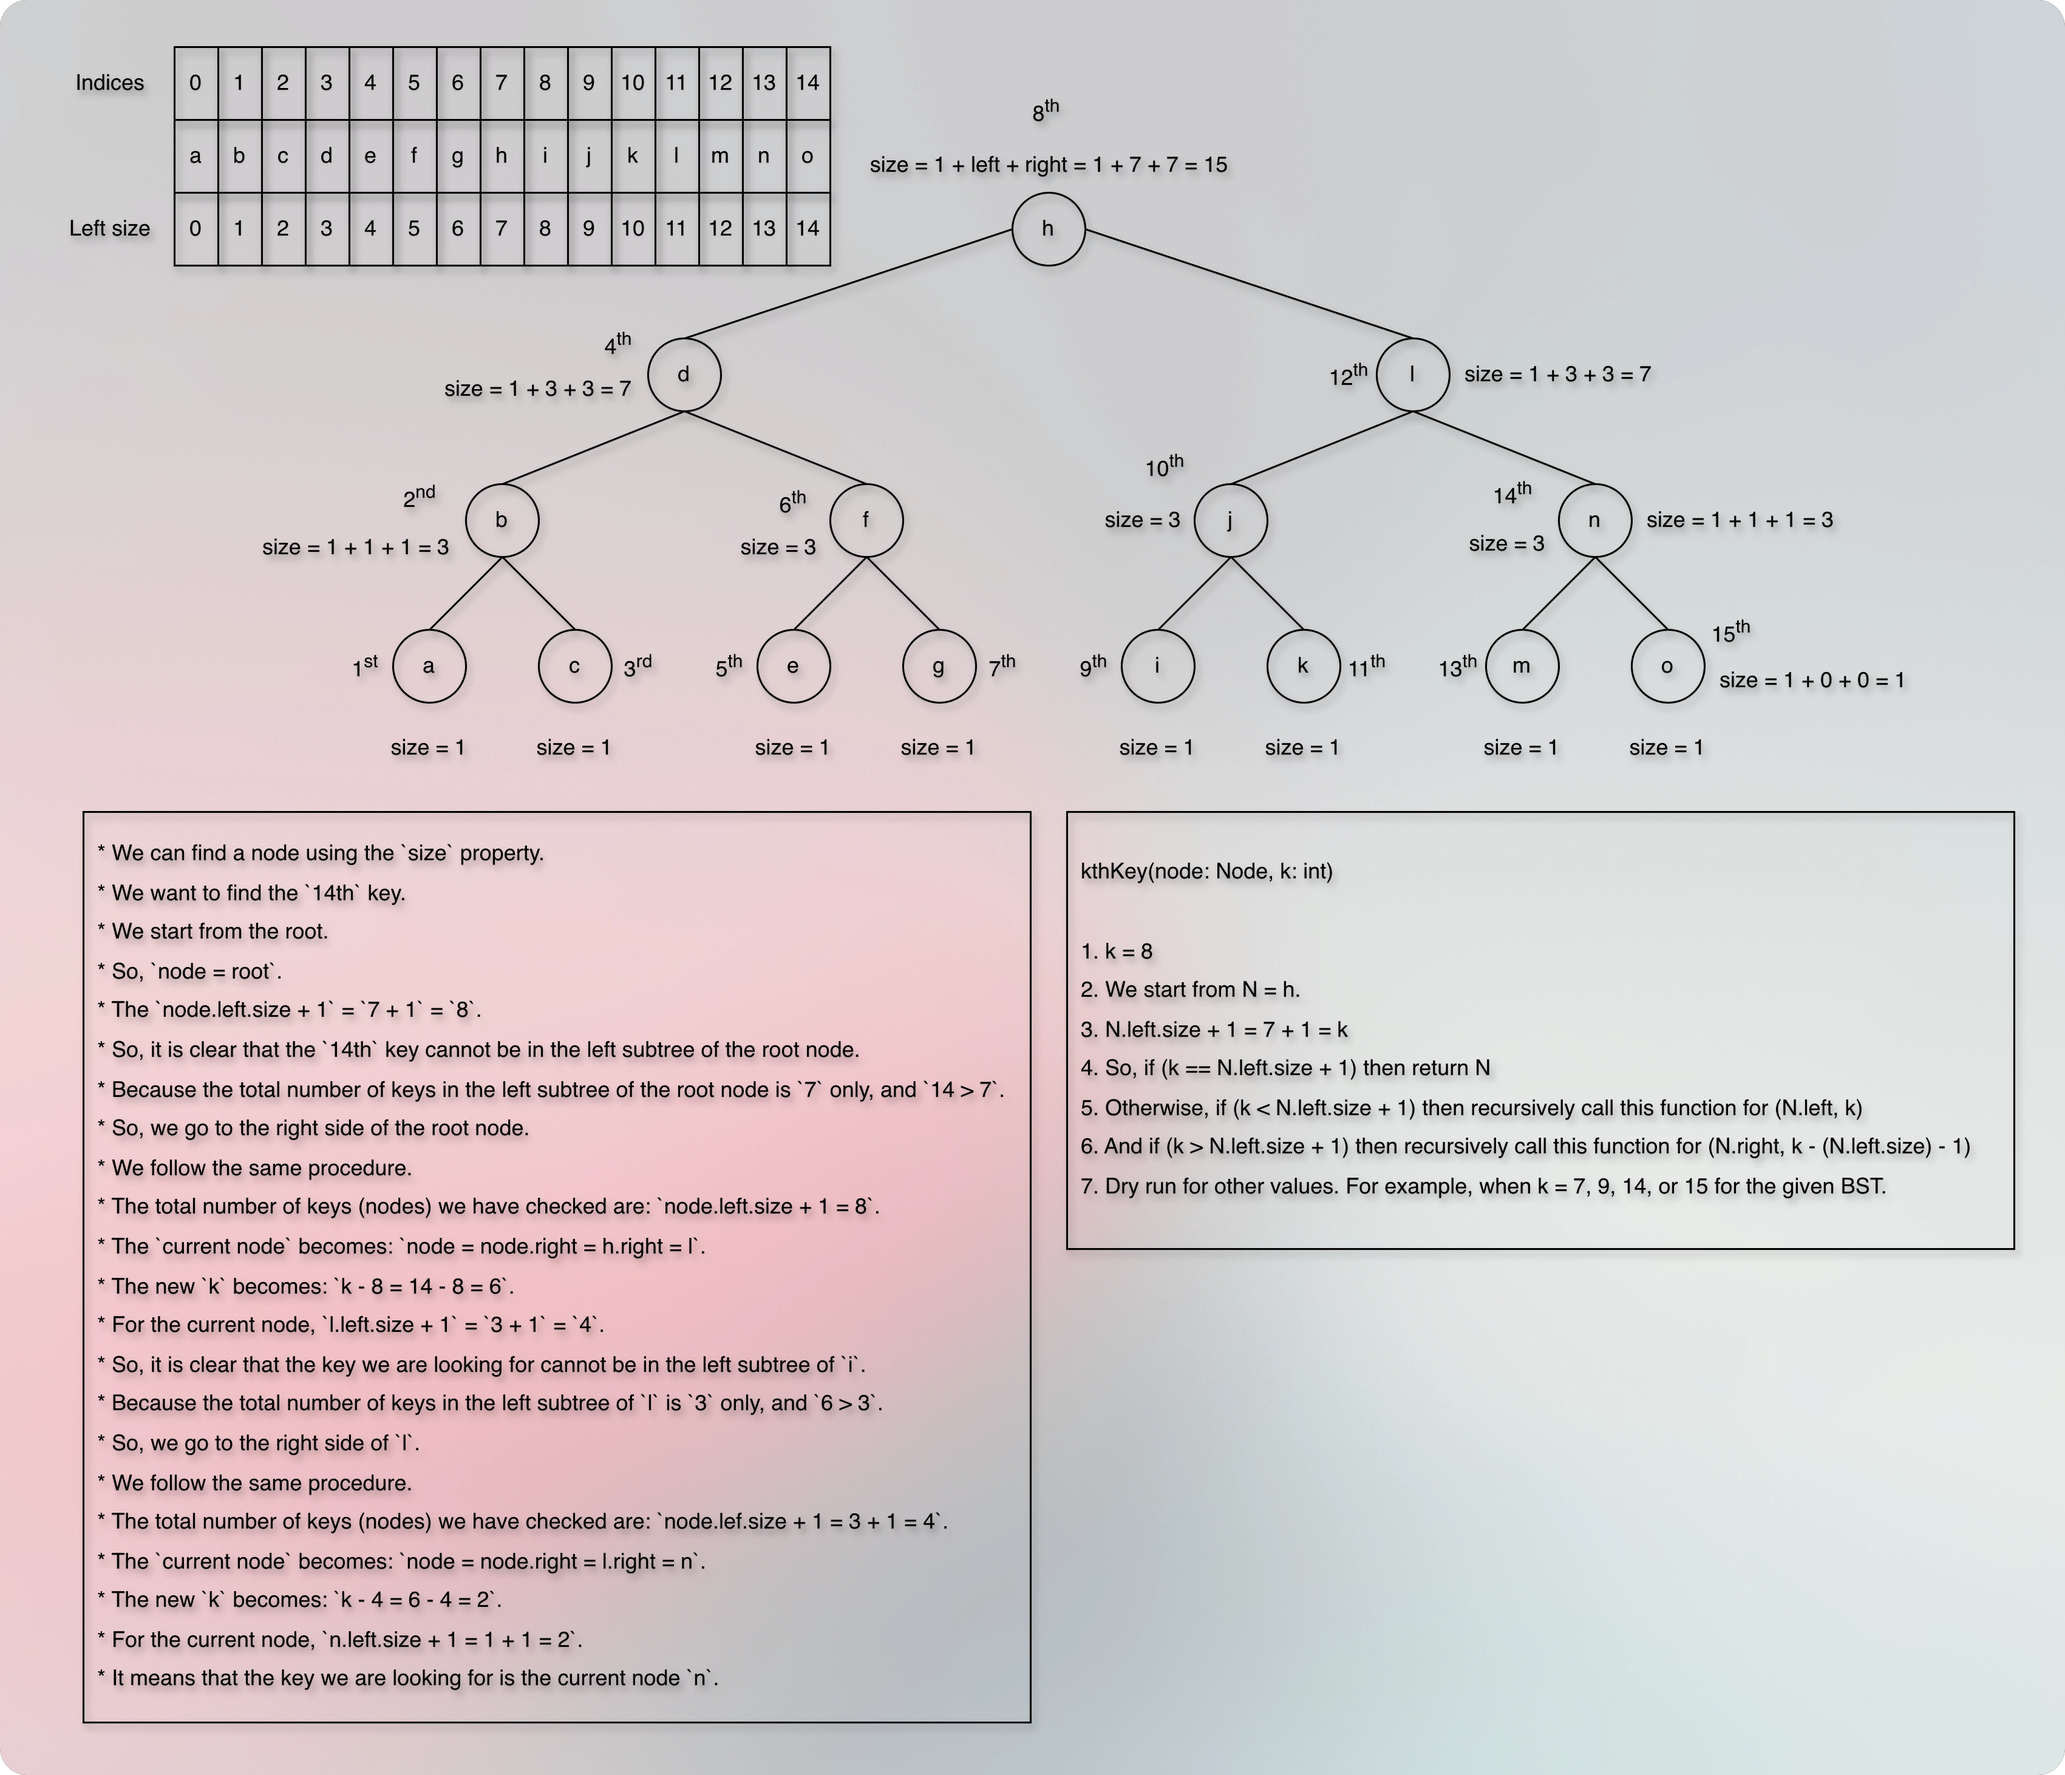
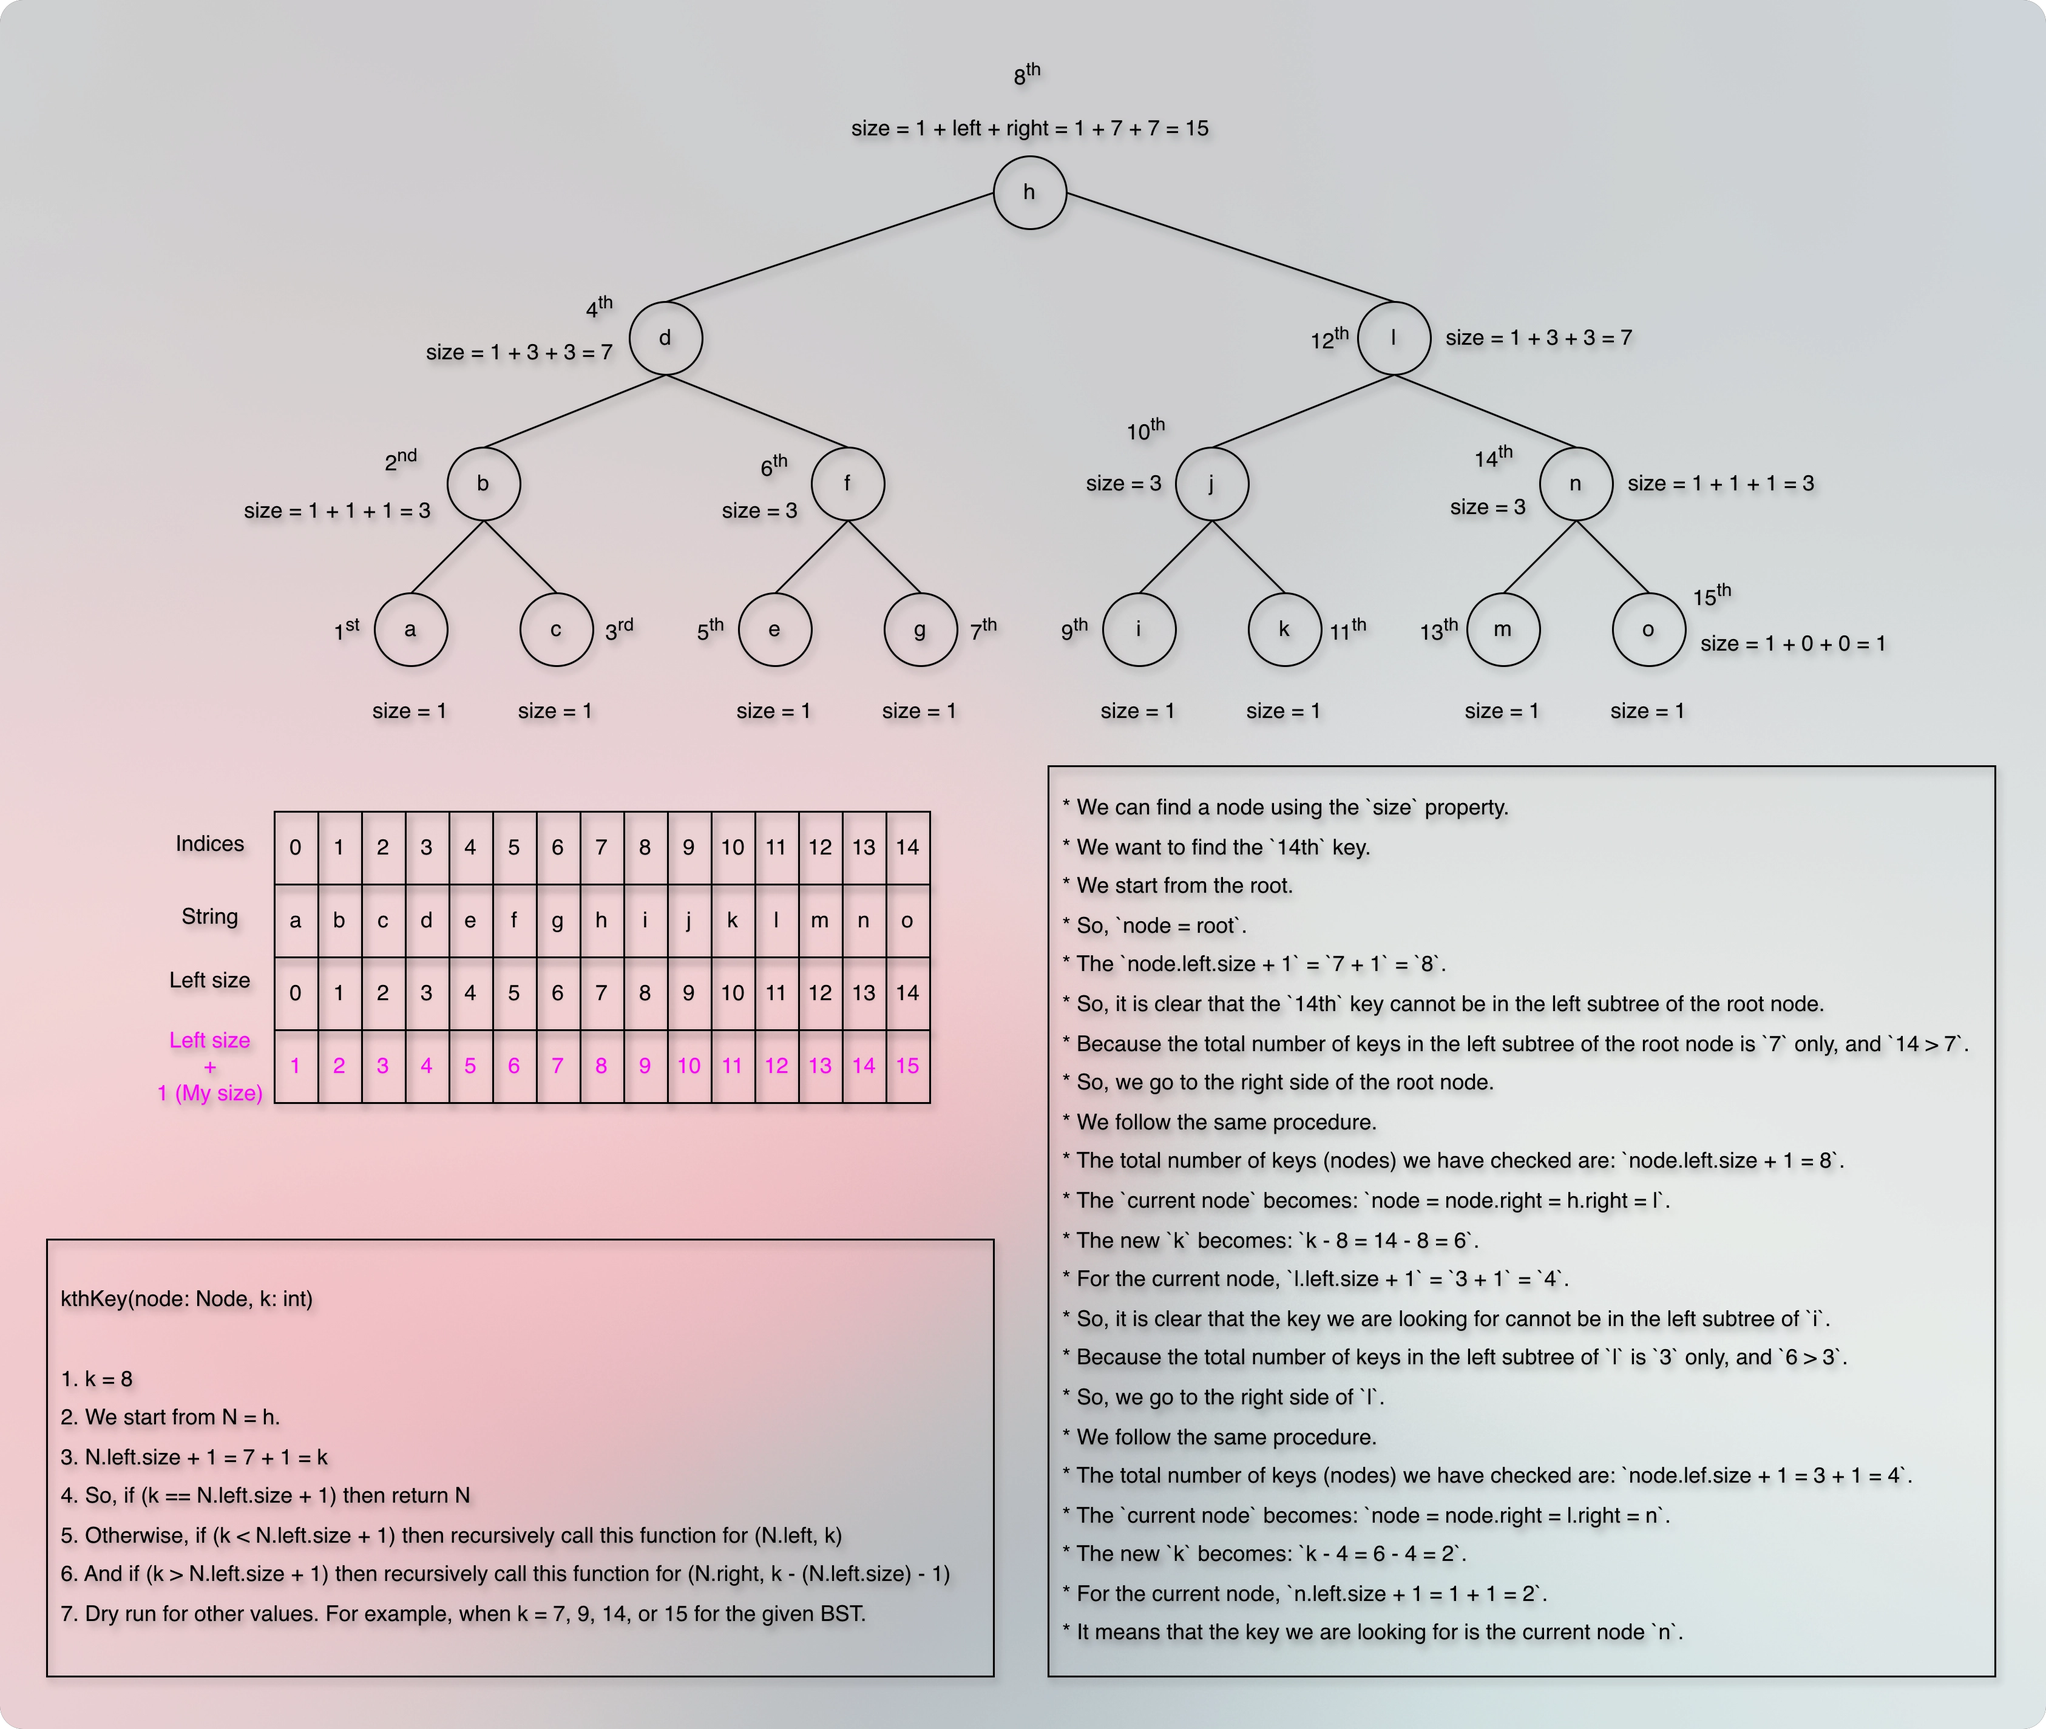
doc(WIP): Elaborate on k-th node search logic (0 vs 1-based index), add findKthNode pseudocode, and update diagrams | 77ropeStringSubstringCutPaste.md | A part of the data structures. Reference: Coursera: UC San Diego: Data Structures: Module 06: Binary Search Trees-2: Programming Assignment-04-Prob
Took 57 minutes

diff --git a/docs/dataStructures/courses/uc/module05binarySearchTrees/77ropeStringSubstringCutPaste.md b/docs/dataStructures/courses/uc/module05binarySearchTrees/77ropeStringSubstringCutPaste.md
@@ -108,17 +108,25 @@
 * But we can do it in a different way as well using an additional property called `size`.
 * For example, let us give each character the `size` property. 
 
-```markdown
+```
 
-             ┌────│───│───│───│───│───│────┐
-             │    │   │   │   │   │   │    │
-             │  a │ b │ c │ d │ e │ f │ g  │
-             │    │   │   │   │   │   │    │
-             ┌────│───│───│───│───│───│────┐
-             │    │   │   │   │   │   │    │
-Left size    │  0 │ 1 │ 2 │ 3 │ 4 │ 5 │ 6  │
-             │    │   │   │   │   │   │    │
-             └────│───│───│───│───│───│────┘
+             +----+---+---+---+---+---+----+
+             |    |   |   |   |   |   |    |
+Indices      |  0 | 1 | 2 | 3 | 4 | 5 | 6  |
+             |    |   |   |   |   |   |    |
+             +----+---+---+---+---+---+----+
+             |    |   |   |   |   |   |    |
+             |  a | b | c | d | e | f | g  |
+             |    |   |   |   |   |   |    |
+             +----+---+---+---+---+---+----+
+             |    |   |   |   |   |   |    |
+Left size    |  0 | 1 | 2 | 3 | 4 | 5 | 6  |
+             |    |   |   |   |   |   |    |
+             +----+---+---+---+---+---+----+
+Left size    |    |   |   |   |   |   |    |
+    +        |  1 | 2 | 3 | 4 | 5 | 6 | 7  |
+1 (My size)  |    |   |   |   |   |   |    |
+             +----+---+---+---+---+---+----+
 
 ```
 
@@ -130,10 +138,25 @@ Left size    │  0 │ 1 │ 2 │ 3 │ 4 │ 5 │ 6  │
 * When we say "Character at 4th index," we focus on the current index of the node and traverse accordingly.
 * And when we say "The node before which there are 4 characters," we focus on the `node.left.size` property of the current node and traverse accordingly.
 * Suppose that the root node is `d`, and we want to find the `4th` character.
+* Note that `4th` is a `1-based-index` here.
+* For the `0-based-index`, it would be the `3rd` character.
 * We know that `d` has `3` characters on its left side.
-* So, `d` is the `4th` character.
-* So, if `left size + 1` is equal to the target position, then the current node is the target node.
+* So, `d` is the `4th` character for the `1-based-index` and `3rd` character for the `0-based-index`.
+* So, `d` is the character we are looking for.
+* So, for a `1-based-index-system`, if `left size + 1` is equal to the target position, then the current node is the target node.
+* And for a `0-based-index-system`, if `left size` is equal to the target position, then the current node is the target node.
+
+> [!IMPORTANT]
+> 1. If it is a `0-based-index-system,` then finding the `kth` character is equal to finding a node who has `k` characters before it on its left side.  
+> 2. So, if `left.size == k`, then the current node is the target node that we are looking for.  
+> 3. If it is a `1-based-index-system,` then it is `index + 1`.
+> 4. Which means, `characters before me on my left side + 1`.
+> 5. Which means, `left.size + 1`.
+> 6. So, if `left.size + 1 == k`, then the current node is the target node that we are looking for.
+
 * Now, suppose that we want to find the `2nd` character.
+* Note that `2nd` is a `1-based-index` here.
+* For the `0-based` index, it would be the `1st` character.
 * We are at `d`.
 * `d` has `3` characters on its left side.
 * So, if `left.size + 1` is greater than the target position, then we go to the left side of the current node.
@@ -149,6 +172,8 @@ Left size    │  0 │ 1 │ 2 │ 3 │ 4 │ 5 │ 6  │
 ![1065ropeStringCutPasteSplayTree.webp](../../../../../assets/images/dataStructures/uc/module06programmingAssignments/1065ropeStringCutPasteSplayTree.webp)
 
 
+![1067ropeStringCutPasteSplayTree.webp](../../../../../assets/images/dataStructures/uc/module06programmingAssignments/1067ropeStringCutPasteSplayTree.webp)
+
 * The formula for the `size` property is `size = 1 + leftSize + rightSize`.
 * This is something we have learned in the previous module:
   * [Reference: Kth Smallest Element in a BST](50avlTreeFindKthSmallKey.md)
@@ -160,7 +185,7 @@ Left size    │  0 │ 1 │ 2 │ 3 │ 4 │ 5 │ 6  │
 * We still need to convert this idea into code.
 ---
 * We can find a node using the `size` property also.
-* We want to find the `14th` key.
+* We want to find the `14th` key (`1-based-index`).
 * We start from the root.
 * So, `node = root`.
 * The `node.left.size + 1` = `7 + 1` = `8`.
@@ -195,7 +220,7 @@ Left size    │  0 │ 1 │ 2 │ 3 │ 4 │ 5 │ 6  │
 * If it is a leaf node or a right node, then we consider and include ancestors.
 * For example, `c` is the leaf node, and it is the right node of `b`.
 * It does not have any left subtree.
-* But, the size of the `parent.left.size = 1 + parent (1) = 2`.
+* But, the size of the `parent (itself)` is `1` + `parent.left.size` is `1`.
 * So, the number of characters before `c` is `2`.
 ---
 
@@ -600,6 +625,60 @@ fun splay(target: Node?): Node? {
     }
     // The `rotate` function calls `update(target)` internally to maintain the invariants.
     return target
+}
+
+```
+
+## Pseudocode: Find the `K-th` Node (Element, Item)
+
+```
+
+             +----+---+---+---+---+---+----+
+             |    |   |   |   |   |   |    |
+Indices      |  0 | 1 | 2 | 3 | 4 | 5 | 6  |
+             |    |   |   |   |   |   |    |
+             +----+---+---+---+---+---+----+
+             |    |   |   |   |   |   |    |
+             |  a | b | c | d | e | f | g  |
+             |    |   |   |   |   |   |    |
+             +----+---+---+---+---+---+----+
+             |    |   |   |   |   |   |    |
+Left size    |  0 | 1 | 2 | 3 | 4 | 5 | 6  |
+             |    |   |   |   |   |   |    |
+             +----+---+---+---+---+---+----+
+Left size    |    |   |   |   |   |   |    |
+    +        |  1 | 2 | 3 | 4 | 5 | 6 | 7  |
+1 (My size)  |    |   |   |   |   |   |    |
+             +----+---+---+---+---+---+----+
+
+```
+
+
+
+* Here, `k` is 0-indexed.
+* So, if `lef.size == k`, then the current node is the `k-th` node.
+
+```kotlin
+
+fun findKthNode(root: Node?, kth: Int): Node? {
+    var curr = root
+    var index = kth
+    while (curr != null) {
+        val leftSize = curr.left?.size ?: 0
+        when {
+            leftSize == index -> {
+                break
+            }
+            leftSize < index -> {
+                curr = curr.left
+            }
+            else -> {
+                curr = curr.right
+                index -= (leftSize + 1) 
+            }
+        }
+    }
+    return splay(curr)
 }
 
 ```
